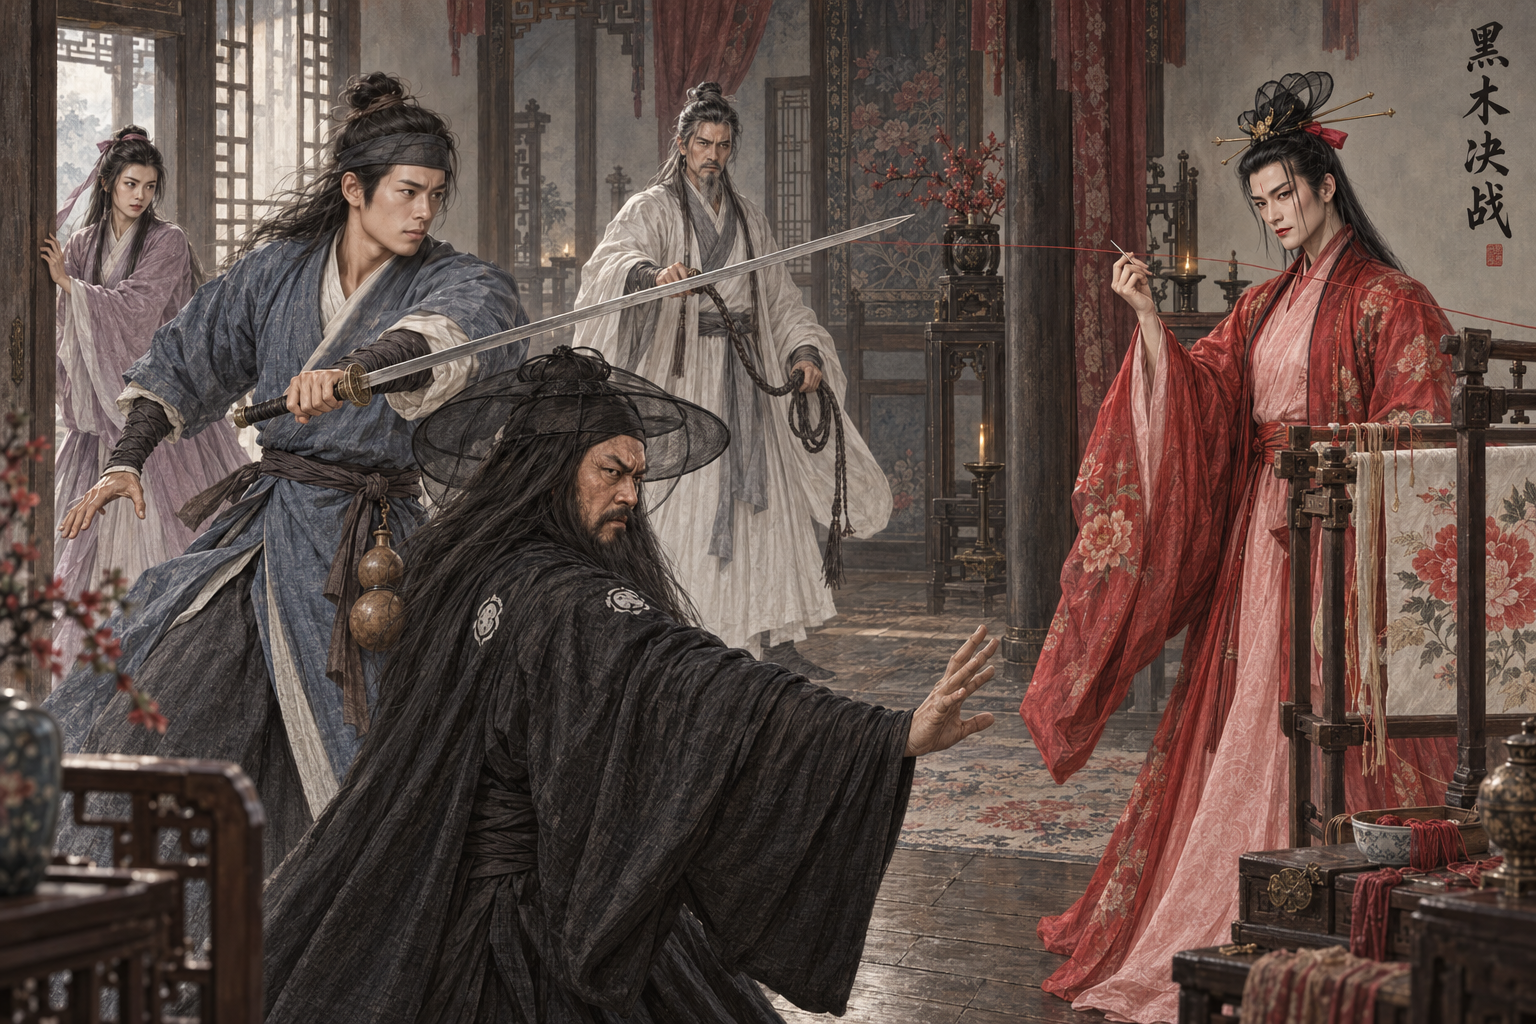
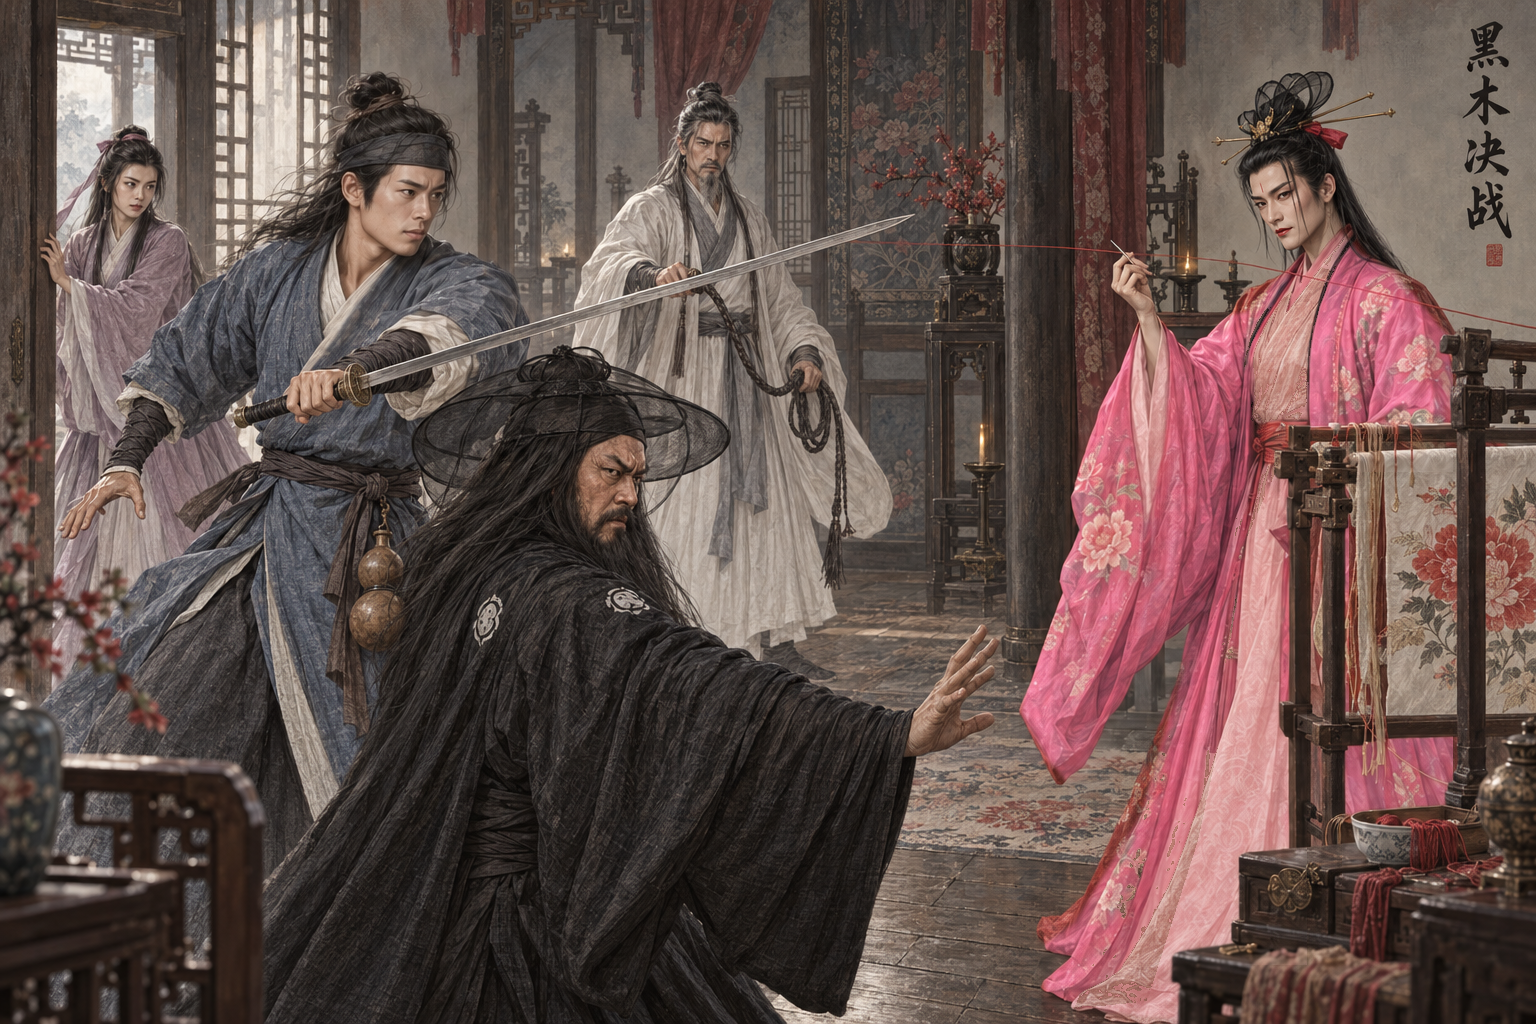
assets: AR-82 原著核对返修 黑木崖东方不败外袍同步粉红
黑木崖东方不败外袍同步粉红；原著摘句已同步提示词；蒙版外变化0像素。

Executed-By: Codex gpt-6.1-sol（AR-82）

Changed region(s): [[0.6562, 0.2188, 0.9688, 1.0], [0.875, 0.7188, 0.9688, 0.8125]]

diff --git a/assets/default/prompts/scenes/ch05-xiaoao/cg_ch05_blackwood_showdown.md b/assets/default/prompts/scenes/ch05-xiaoao/cg_ch05_blackwood_showdown.md
@@ -28,6 +28,12 @@ redo_reason: "作者 10-02 晚：复合基线风格精修"
 composite_job: cg_ch05_blackwood_showdown.resume3
 ---
 
+## AR-82 当前定稿要求
+
+只改画面最右侧东方不败的深红外袍布料主色为娇艳粉红，与其返修后的基础立绘一致。保留内衫、脸与发冠、绣花针、手、针线与绷架；其他四人的全部像素和整幅题字完全保留，特别是前景黑袍任我行的衣服不改，本场并非出狱一刻。保持原画衣褶、刺绣位置、机位与动作。
+
+以上为当前原著核对后的要求，覆盖下文旧版中与之冲突的服饰、器物、伤残、光线和体态描述。
+
 ## Gemini 提示词
 
 > 作者10-02晚复合精修；任务 `cg_ch05_blackwood_showdown.resume3`；实际上传顺序见frontmatter，末两张为male项目基线。
@@ -69,3 +75,7 @@ composite_job: cg_ch05_blackwood_showdown.resume3
 排除项：不要文字、题字、字幕、水印、签名、Logo、边框或分镜格；不要未指定的多余人物（明确要求的远景群像除外）；不要幼态、儿童体态、性化处理、裸露或恋物特写；不要血腥特写、断肢、尸体堆叠或伤口细节；不要真人、演员、影视剧照复刻；不要多余肢体、手指错误、脸部融合、身份串脸、时代错装、现代物件、动漫风、摄影棚感、3D 塑料感。
 ```
 
+## 原著依据
+
+- 《笑傲江湖》三十一《绣花》：“身穿粉红衣衫”（https://xuges.com/WUXIA/jinyong/xajh/237.htm）
+- AR-82 返修约束：只改画面最右侧东方不败的深红外袍布料主色为娇艳粉红，与其返修后的基础立绘一致。保留内衫、脸与发冠、绣花针、手、针线与绷架；其他四人的全部像素和整幅题字完全保留，特别是前景黑袍任我行的衣服不改，本场并非出狱一刻。保持原画衣褶、刺绣位置、机位与动作。
